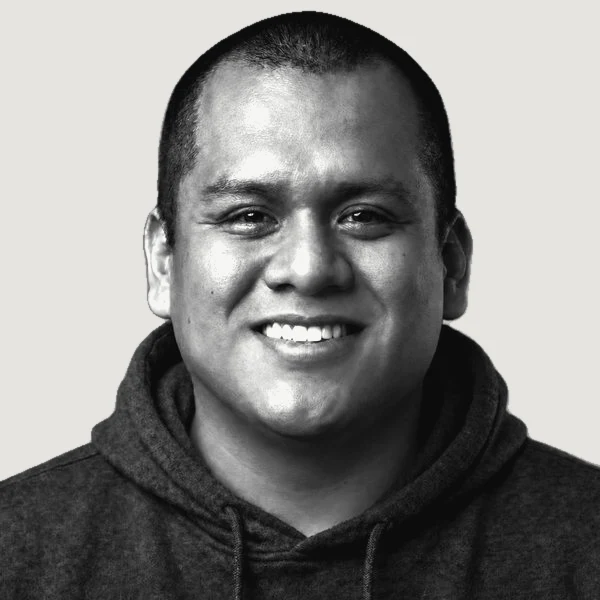
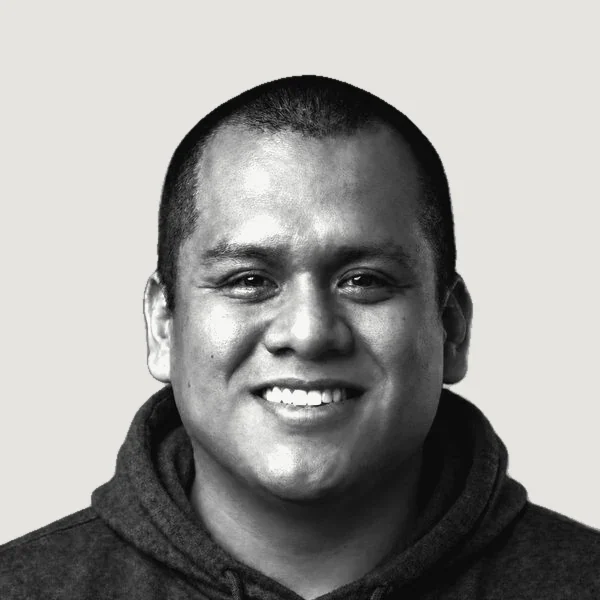
Pasada R6: coherencia visual, accesibilidad y menos repeticiones
- Retratos de Eddie y Lorenzo a la misma escala en el archivo, con aire
  sobre la cabeza para el parallax; sin zoom por CSS. En celular, 180 px.
- Nosotros: fichas alineadas por filas con subgrid; enlaces de 24 px.
- Escalera: el panel ya no repite los programas de la sección Programas;
  «Cómo se ve cada nivel» como un solo rótulo de fila.
- Mismo rótulo de señal en escalera y Diagnóstico; cierres con «Recibir
  el kit»; el cierre de la portada no repite «cinco plantillas, 2 horas».
- Programas: Sprint / Coconstrucción como el resto (tipo y nombre),
  postulación sobre papel para no compartir fondo con el pie y botones
  repetidos con contexto para lectores de pantalla.
- Workbook: «Ver la parte» con su número; h2 en la calculadora de la K.1.
- Reglas de diseño y pendientes actualizados (R6).

Claude-Session: https://claude.ai/code/session_0138EnzXfWhPJtfVtctGk4Mc

diff --git a/src/components/site/Ladder.tsx b/src/components/site/Ladder.tsx
@@ -1,8 +1,7 @@
 "use client";
 
-import Link from "next/link";
 import { useState, type KeyboardEvent } from "react";
-import { LEVELS, LOOK, SIGNAL, CHAPS, DO_NOW, WITH, HERE } from "@/content/sitio";
+import { LEVELS, LOOK, SIGNAL, CHAPS, DO_NOW, HERE } from "@/content/sitio";
 import { Figure, Jn, Lvl, Mono, Sc } from "./ui";
 
 // Colores de los tokens (globals.css). En el SVG van por la propiedad style, que admite variables.
@@ -46,31 +45,17 @@ function Panel({ k, mobile }: { k: number; mobile?: boolean }) {
   );
   const sig = (
     <div>
-      <div className="wm text-ink2">Señal para pasar al siguiente</div>
+      <div className="wm text-ink2">{k < 3 ? "Señal para pasar al siguiente" : "Para sostener el nivel 3"}</div>
       <p className="text-h3 leading-[1.35] font-bold mt-2">{SIGNAL[k]}</p>
       <div className="wm text-ink2 mt-[22px]">En el libro</div>
       <p className="text-cuerpo mt-1.5">{CHAPS[k]}</p>
     </div>
   );
+  // Los programas de cada nivel van una sola vez, en la sección Programas de la portada (R6).
   const items = (
-    <div>
-      <div className="wm text-ink2 mb-1.5">Te acompaña</div>
-      <ul>
-        {WITH[k].map((w) => (
-          <li key={w.name}>
-            <Link href={w.href} className="group flex justify-between items-baseline gap-4 py-3 border-t border-ink">
-              <span className="text-cuerpo font-bold">
-                <span className="lnk">{w.name}</span>
-              </span>
-              <span className="wm text-ink2 text-right whitespace-nowrap">{w.meta}</span>
-            </Link>
-          </li>
-        ))}
-      </ul>
-      <p className="bg-sage text-recuadro leading-[1.45] mt-4 px-3 py-2.5" style={{ borderTop: "var(--filete-fino) solid var(--color-saged)" }}>
-        {HERE[k]}
-      </p>
-    </div>
+    <p className="bg-sage text-recuadro leading-[1.45] px-3 py-2.5" style={{ borderTop: "var(--filete-fino) solid var(--color-saged)" }}>
+      {HERE[k]}
+    </p>
   );
   if (mobile)
     return (
@@ -85,7 +70,7 @@ function Panel({ k, mobile }: { k: number; mobile?: boolean }) {
       </div>
     );
   return (
-    <div className="xfade bg-warm grid gap-10 xl:gap-14 grid-cols-[minmax(0,1.5fr)_minmax(0,1fr)_minmax(0,1.2fr)] px-10 pt-9 pb-10">
+    <div className="xfade bg-warm grid gap-10 xl:gap-14 grid-cols-[minmax(0,1.5fr)_minmax(0,1fr)] px-10 pt-9 pb-10">
       <div>
         {tag}
         <h3 className="ws text-figura mt-3.5">{head}</h3>
@@ -93,8 +78,10 @@ function Panel({ k, mobile }: { k: number; mobile?: boolean }) {
           <Sc text={body} />
         </p>
       </div>
-      {sig}
-      {items}
+      <div>
+        {sig}
+        <div className="mt-[22px]">{items}</div>
+      </div>
     </div>
   );
 }
@@ -209,13 +196,17 @@ export default function Ladder() {
             <Figure who="rodrigo" />
           </div>
         </div>
-        <div className="grid grid-cols-4">
-          {LOOK.map((t, k) => (
-            <div key={k} className="border-t border-ink pt-2.5 pr-5">
-              <div className="wm text-ink2">Cómo se ve</div>
-              <p className="text-recuadro leading-[1.4] mt-1.5">{t}</p>
-            </div>
-          ))}
+        {/* «Cómo se ve» va una vez, como cabecera de la fila (no se repite en cada columna). */}
+        <div className="border-t border-ink pt-2.5">
+          <div className="wm text-ink2">Cómo se ve cada nivel</div>
+          <div className="grid grid-cols-4">
+            {LOOK.map((t, k) => (
+              <p key={k} className="text-recuadro leading-[1.4] mt-1.5 pr-5">
+                <span className="sr-only">Nivel {k}, {LEVELS[k]}: </span>
+                {t}
+              </p>
+            ))}
+          </div>
         </div>
         <div id="panel-nivel" className="mt-9" role="region" aria-live="polite" aria-label={`Nivel ${sel}, ${LEVELS[sel]}`}>
           <Panel key={sel} k={sel} />

diff --git a/src/app/(site)/page.tsx b/src/app/(site)/page.tsx
@@ -278,35 +278,39 @@ function Founders() {
     <section id="nosotros" className="border-t border-ink" aria-labelledby="nos-t">
       <div className="wrap pt-12 pb-14 lg:pt-[88px] lg:pb-24">
         <SecHead id="nos-t" className="max-w-[900px]" label={["Nosotros", "Autores del libro"]} title="Eddie y Lorenzo escribieron el libro y dirigen los programas" />
-        <div className="grid gap-10 lg:gap-16 lg:grid-cols-2 mt-8 lg:mt-14">
+        {/* Filas compartidas (subgrid): cargo, nombre, credencial, bio y enlaces arrancan a la misma altura en las dos columnas,
+            aunque solo una bio traiga credencial. */}
+        <div className="grid gap-y-10 lg:gap-x-16 lg:gap-y-0 lg:grid-cols-2 lg:grid-rows-[auto_auto_auto_auto_1fr] mt-8 lg:mt-14">
           {FOUNDERS.map((f) => (
-            <article key={f.key} className="rv grid gap-4 sm:gap-8 sm:grid-cols-[200px_minmax(0,1fr)] xl:grid-cols-[240px_minmax(0,1fr)]">
+            <article
+              key={f.key}
+              className="rv grid sm:gap-x-8 sm:grid-cols-[200px_minmax(0,1fr)] sm:grid-rows-[auto_auto_auto_auto_1fr] lg:row-span-5 lg:grid-rows-subgrid xl:grid-cols-[240px_minmax(0,1fr)]"
+            >
               <Parallax
                 src={f.photo}
                 alt={`Retrato de ${f.name} en duotono`}
-                sizes="(min-width: 1280px) 240px, (min-width: 640px) 200px, 100vw"
-                className="w-full aspect-square sm:aspect-[240/296] bg-warm border border-ink"
+                sizes="(min-width: 1280px) 240px, (min-width: 640px) 200px, 180px"
+                className="w-[180px] sm:w-full aspect-[240/296] bg-warm border border-ink sm:row-span-5 self-start"
                 position="center 30%"
-                zoom={f.zoom}
               />
-              <div className="flex flex-col">
-                <Mono tone="gris">{f.role}</Mono>
-                <h3 className="wh2 text-h2 mt-2 lg:mt-3">{f.name}</h3>
-                {f.cred ? <div className="text-cuerpo font-semibold mt-2">{f.cred}</div> : null}
-                <p className="wt mt-2.5 lg:mt-3">
-                  <Sc text={f.bio} />
-                </p>
-                <p className="mt-auto pt-3 lg:pt-4 flex flex-wrap gap-x-6 gap-y-2">
-                  <a href={f.webUrl} target="_blank" rel="noopener noreferrer" className="wm ul">
-                    {f.web}
-                    <span className="sr-only"> (se abre en otra pestaña)</span>
-                  </a>
-                  <a href={f.linkedin} target="_blank" rel="noopener noreferrer" className="wm ul">
-                    LinkedIn
-                    <span className="sr-only"> de {f.name} (se abre en otra pestaña)</span>
-                  </a>
-                </p>
-              </div>
+              <Mono tone="gris" className="mt-4 sm:mt-0">
+                {f.role}
+              </Mono>
+              <h3 className="wh2 text-h2 mt-2 lg:mt-3">{f.name}</h3>
+              <div className={f.cred ? "text-cuerpo font-semibold mt-2" : ""}>{f.cred}</div>
+              <p className="wt mt-2.5 lg:mt-3">
+                <Sc text={f.bio} />
+              </p>
+              <p className="self-end pt-3 lg:pt-4 flex flex-wrap gap-x-6 gap-y-2">
+                <a href={f.webUrl} target="_blank" rel="noopener noreferrer" className="wm ul inline-flex items-end min-h-6">
+                  {f.web}
+                  <span className="sr-only"> (se abre en otra pestaña)</span>
+                </a>
+                <a href={f.linkedin} target="_blank" rel="noopener noreferrer" className="wm ul inline-flex items-end min-h-6">
+                  LinkedIn
+                  <span className="sr-only"> de {f.name} (se abre en otra pestaña)</span>
+                </a>
+              </p>
             </article>
           ))}
         </div>

diff --git a/src/app/(site)/programas/page.tsx b/src/app/(site)/programas/page.tsx
@@ -87,11 +87,12 @@ export default function ProgramasPage() {
                               <a href={primary.href} target="_blank" rel="noopener noreferrer" className="btn2 w-full">
                                 <Icon name="calendario" size={18} />
                                 <span>{p.cta}</span>
-                                <span className="sr-only"> (se abre en otra pestaña)</span>
+                                <span className="sr-only"> para {p.name} (se abre en otra pestaña)</span>
                               </a>
                             ) : (
                               <a href={primary.href} className="btn2 w-full">
                                 {p.cta}
+                                <span className="sr-only">: {p.name}</span>
                               </a>
                             )}
                           </div>
@@ -107,7 +108,7 @@ export default function ProgramasPage() {
         </div>
       </section>
 
-      <section id="postular" className="bg-warm" aria-labelledby="postular-t">
+      <section id="postular" className="border-t border-ink" aria-labelledby="postular-t">
         {PROGRAMAS.map((p) => (
           <span key={p.id} id={`postular-${p.id}`} className="block" aria-hidden="true" />
         ))}

diff --git a/src/content/sitio.ts b/src/content/sitio.ts
@@ -213,7 +213,7 @@ export const PRODUCTS: Product[][] = [
     { tag: "Acompañamiento", name: "Sesiones individuales de transición", desc: "Planificas tu salida midiendo las dos condiciones del punto de no retorno.", meta: "6 a 8 sesiones", cta: "Agenda 30 minutos", href: "/programas#sesiones" },
   ],
   [
-    { tag: "Coconstrucción", name: "Firma o producto propio", desc: "Convertimos tu portafolio en una firma o un producto, junto a ti, en un sprint de 90 días.", meta: "Sprint de 90 días", cta: "Agenda 30 minutos", href: "/programas#coconstruccion" },
+    { tag: "Sprint", name: "Coconstrucción", desc: "Convertimos tu portafolio en una firma o un producto, junto a ti, en un sprint de 90 días.", meta: "Sprint de 90 días", cta: "Agenda 30 minutos", href: "/programas#coconstruccion" },
   ],
 ];
 
@@ -246,7 +246,6 @@ export const FOUNDERS = [
     webUrl: "https://eddieajalcrina.com",
     linkedin: "https://www.linkedin.com/in/eddieajalcrina/",
     photo: "/img/eddie-ajalcrina.webp",
-    zoom: 1.22,
   },
   {
     key: "lorenzo",
@@ -258,7 +257,6 @@ export const FOUNDERS = [
     webUrl: "https://lorenzoortiz.co",
     linkedin: "https://www.linkedin.com/in/lorenzoortiz/",
     photo: "/img/lorenzo-ortiz.webp",
-    zoom: 1,
   },
 ];
 

diff --git a/src/components/site/RunwayCalc.tsx b/src/components/site/RunwayCalc.tsx
@@ -36,7 +36,9 @@ const EJ: Ej[] = [
 const MIN = 6;
 
 /** Calculadora K.1: runway = ahorro líquido ÷ costo de vida mensual, con el mínimo de 6 meses marcado. */
-export default function RunwayCalc() {
+export default function RunwayCalc({ nivel = 3 }: { nivel?: 2 | 3 }) {
+  // En /kit la figura vive bajo un h2 de sección; en /workbook/k1 sigue directo al h1.
+  const Titulo = nivel === 2 ? "h2" : "h3";
   const id = useId();
   const [ej, setEj] = useState<Ej>(EJ[0]);
   const [a, setA] = useState(EJ[0].a);
@@ -211,9 +213,9 @@ export default function RunwayCalc() {
           <Mono>
             <Jn parts={["Marco 1.1", "Tu runway"]} />
           </Mono>
-          <h3 className="ws text-figura mt-2" aria-live="polite">
+          <Titulo className="ws text-figura mt-2" aria-live="polite">
             {title}
-          </h3>
+          </Titulo>
           <p className="text-recuadro text-ink3 mt-1.5">
             {isEj ? `Runway de ${ej.name} en meses, con su costo de vida actual, frente al colchón mínimo de 6 meses` : "Tu runway en meses frente al colchón mínimo de 6 meses"}
           </p>

diff --git a/src/components/site/Parallax.tsx b/src/components/site/Parallax.tsx
@@ -12,7 +12,6 @@ export default function Parallax({
   preload = false,
   className = "",
   position = "center",
-  zoom = 1,
   children,
 }: {
   src: string;
@@ -21,8 +20,6 @@ export default function Parallax({
   preload?: boolean;
   className?: string;
   position?: string;
-  /** Acercamiento del recorte, para igualar el tamaño de los rostros entre retratos. */
-  zoom?: number;
   children?: React.ReactNode;
 }) {
   const ref = useRef<HTMLDivElement>(null);
@@ -32,7 +29,7 @@ export default function Parallax({
   return (
     <div ref={ref} className={`relative overflow-hidden ${className}`}>
       <motion.div className="absolute inset-[-6%_0]" style={reduce ? undefined : { y }}>
-        <Image src={src} alt={alt} fill sizes={sizes} preload={preload} className="object-cover" style={{ objectPosition: position, ...(zoom !== 1 ? { transform: `scale(${zoom})`, transformOrigin: position } : {}) }} />
+        <Image src={src} alt={alt} fill sizes={sizes} preload={preload} className="object-cover" style={{ objectPosition: position }} />
         {children}
       </motion.div>
     </div>

diff --git a/src/app/(site)/libro/page.tsx b/src/app/(site)/libro/page.tsx
@@ -328,7 +328,7 @@ function Authors() {
         <div className="grid gap-8 lg:gap-16 sm:grid-cols-2 mt-8 lg:mt-11">
           {FOUNDERS.map((f) => (
             <div key={f.key} className="rv grid gap-5 grid-cols-[96px_minmax(0,1fr)] lg:grid-cols-[120px_minmax(0,1fr)] items-start">
-              <Parallax src={f.photo} alt={`Retrato de ${f.name} en duotono`} sizes="120px" className="w-full aspect-[160/196] bg-warm border border-ink" position="center 30%" zoom={f.zoom} />
+              <Parallax src={f.photo} alt={`Retrato de ${f.name} en duotono`} sizes="120px" className="w-full aspect-[160/196] bg-warm border border-ink" position="center 30%" />
               <div>
                 <Mono tone="gris">{f.role}</Mono>
                 <h3 className="wh2 text-h2 mt-2.5">{f.name}</h3>

diff --git a/src/components/site/Diagnostico.tsx b/src/components/site/Diagnostico.tsx
@@ -192,7 +192,7 @@ function Result({ ans, onRestart, headRef }: { ans: Respuestas; onRestart: () =>
             <p className="text-recuadro leading-[1.45] text-ink2 mt-5">Anota tu nivel con la fecha en «Tu nivel en la escalera», al comienzo del workbook.</p>
           </div>
           <div>
-            <div className="wm text-ink2">{k < 3 ? "Para pasar al nivel siguiente" : "Para sostener el nivel 3"}</div>
+            <div className="wm text-ink2">{k < 3 ? "Señal para pasar al siguiente" : "Para sostener el nivel 3"}</div>
             <p className="text-h3 leading-[1.35] font-bold mt-2">{SIGNAL[k]}</p>
             <div className="wm text-ink2 mt-6 mb-1.5">Te acompaña</div>
             <ul>

diff --git a/src/components/site/FinalCta.tsx b/src/components/site/FinalCta.tsx
@@ -4,7 +4,7 @@ import EmailCta from "./EmailCta";
 /** Cierre de página sobre tinta: el kit «Plan de salida» por correo y la agenda como alternativa. */
 export default function FinalCta({
   title = "Empieza por tu runway",
-  text = "El kit «Plan de salida» trae cinco plantillas que llenas en unas 2 horas. La primera te dice en 20 minutos cuántos meses aguantas sin sueldo.",
+  text = "La K.1, la primera plantilla del kit «Plan de salida», te dice en 20 minutos cuántos meses aguantas sin sueldo. Deja tu correo y te enviamos el kit completo.",
   button = "Recibir el kit",
 }: {
   title?: string;

diff --git a/src/content/programas.ts b/src/content/programas.ts
@@ -62,8 +62,8 @@ export const PROGRAMAS: Programa[] = [
     id: "coconstruccion",
     level: 3,
     levelLabel: "Nivel 3",
-    tag: "Coconstrucción",
-    name: "Firma o producto propio",
+    tag: "Sprint",
+    name: "Coconstrucción",
     desc: "Convertimos tu portafolio en una firma o un producto, junto a ti, en un sprint de 90 días.",
     format: "Sprint de 90 días",
     forWho: "Vives de tu portafolio y quieres que deje de depender solo de tus horas.",

diff --git a/src/app/(site)/workbook/page.tsx b/src/app/(site)/workbook/page.tsx
@@ -77,7 +77,7 @@ export default function WorkbookIndex() {
                 Parte {num}, {name}
               </h2>
               <Link href={`/workbook/parte-${num}`} className="ul text-recuadro font-semibold whitespace-nowrap">
-                Ver la parte
+                Ver la parte<span className="sr-only"> {num}, {name}</span>
               </Link>
             </div>
             <ul className="mt-4 border-b border-ink">

diff --git a/src/app/(site)/workbook/[id]/page.tsx b/src/app/(site)/workbook/[id]/page.tsx
@@ -231,7 +231,7 @@ function TemplatePage({ p }: { p: Plantilla }) {
       {p.id === "k1" && (
         <section id="calculadora" className="border-t border-ink" aria-label="Calculadora en línea de la K.1">
           <div className="wrap py-12 lg:py-[88px]">
-            <RunwayCalc />
+            <RunwayCalc nivel={2} />
           </div>
         </section>
       )}
